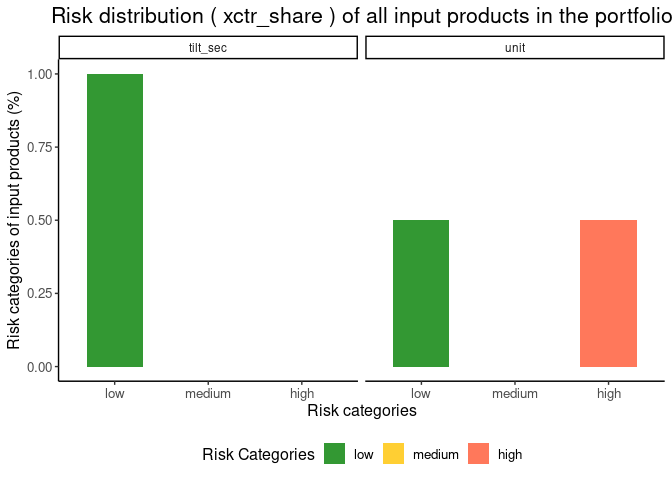
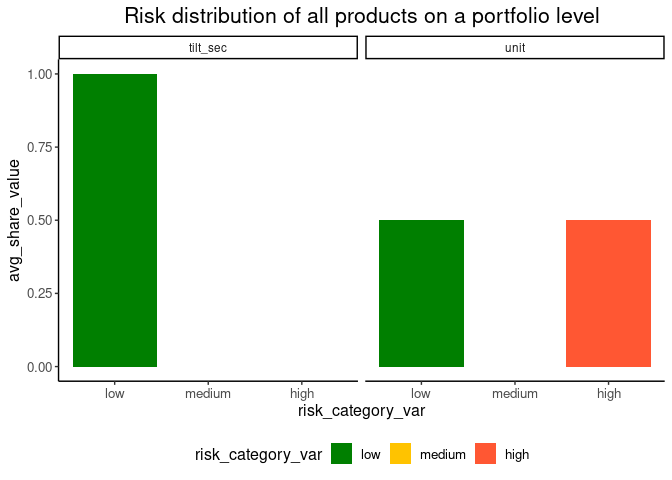
added custom file and changed READMEfile

diff --git a/README.md b/README.md
@@ -14,10 +14,6 @@ coverage](https://codecov.io/gh/2DegreesInvesting/tiltPlot/branch/main/graph/bad
 
 The goal of tiltPlot is to provide plots for the TILT project.
 
-## Example
-
-Let us load the toy data set.
-
 ``` r
 library(tiltPlot)
 ```
@@ -97,7 +93,8 @@ xctr_toy_data
 Plot on a company-level:
 
 ``` r
-plot_xctr_company(xctr_toy_data, "company_a")
+plot_xctr_company(xctr_toy_data, "company_a") +
+  ggplot2::labs(title = "Risk distribution of all products on a company level") 
 ```
 
 <img src="man/figures/README-unnamed-chunk-8-1.png" width="100%" />
@@ -105,7 +102,8 @@ plot_xctr_company(xctr_toy_data, "company_a")
 Plot on a portfolio-level:
 
 ``` r
-plot_xctr_portfolio(xctr_toy_data)
+plot_xctr_portfolio(xctr_toy_data) +
+  ggplot2::labs(title = "Risk distribution of all products on a portfolio level")
 ```
 
 <img src="man/figures/README-unnamed-chunk-9-1.png" width="100%" />
